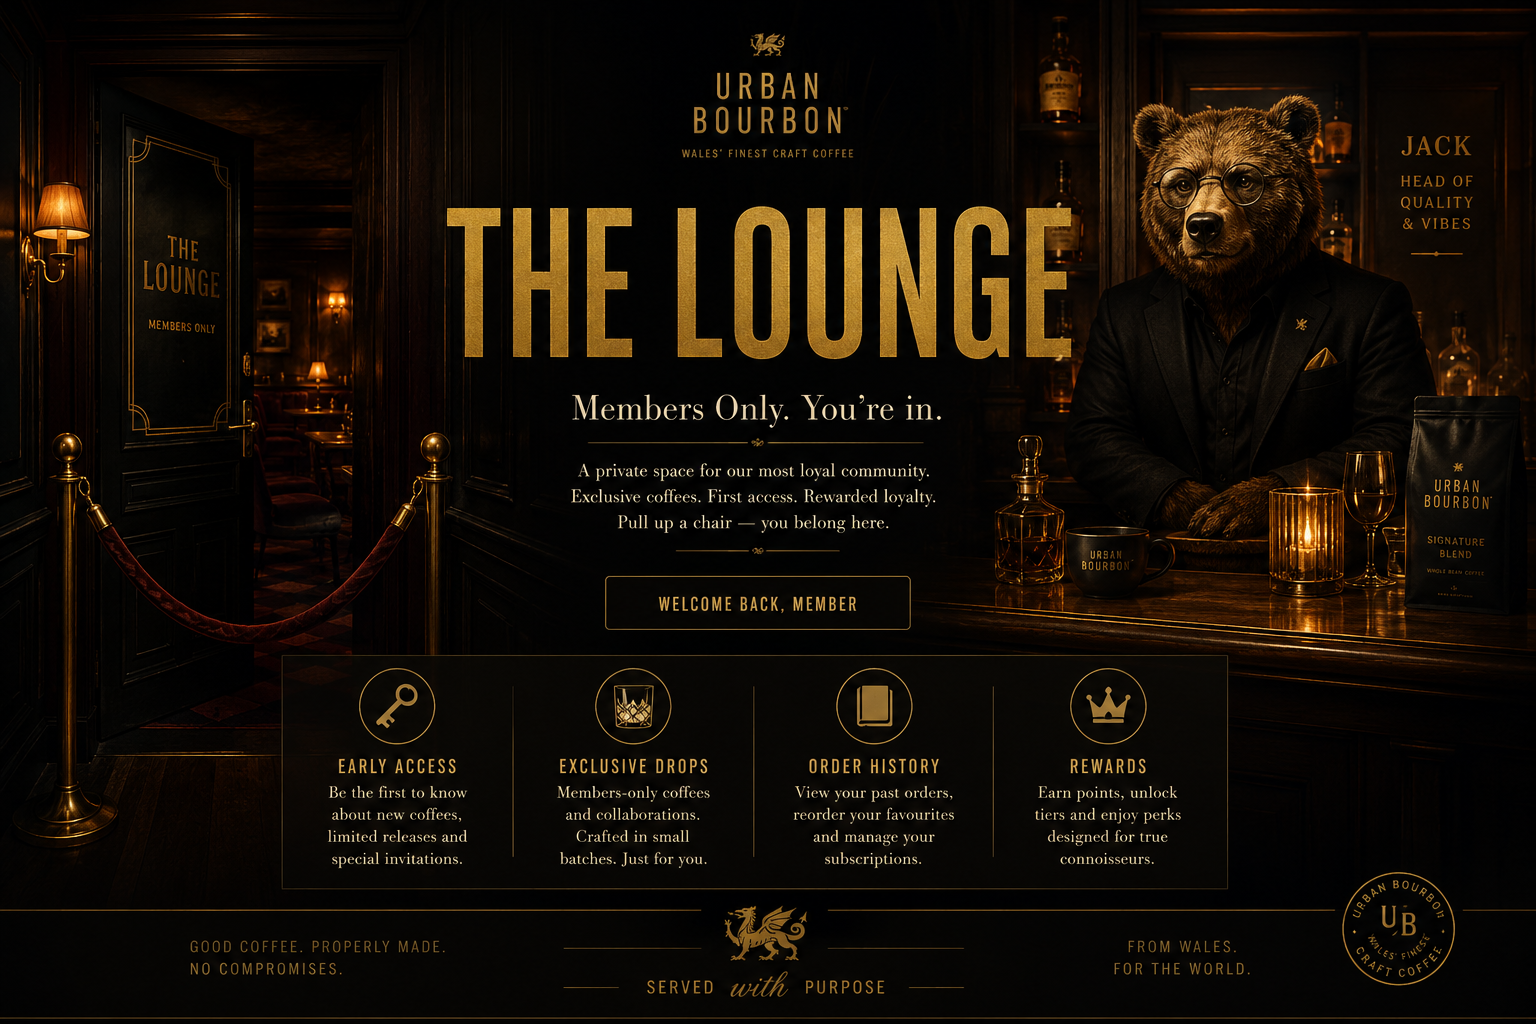
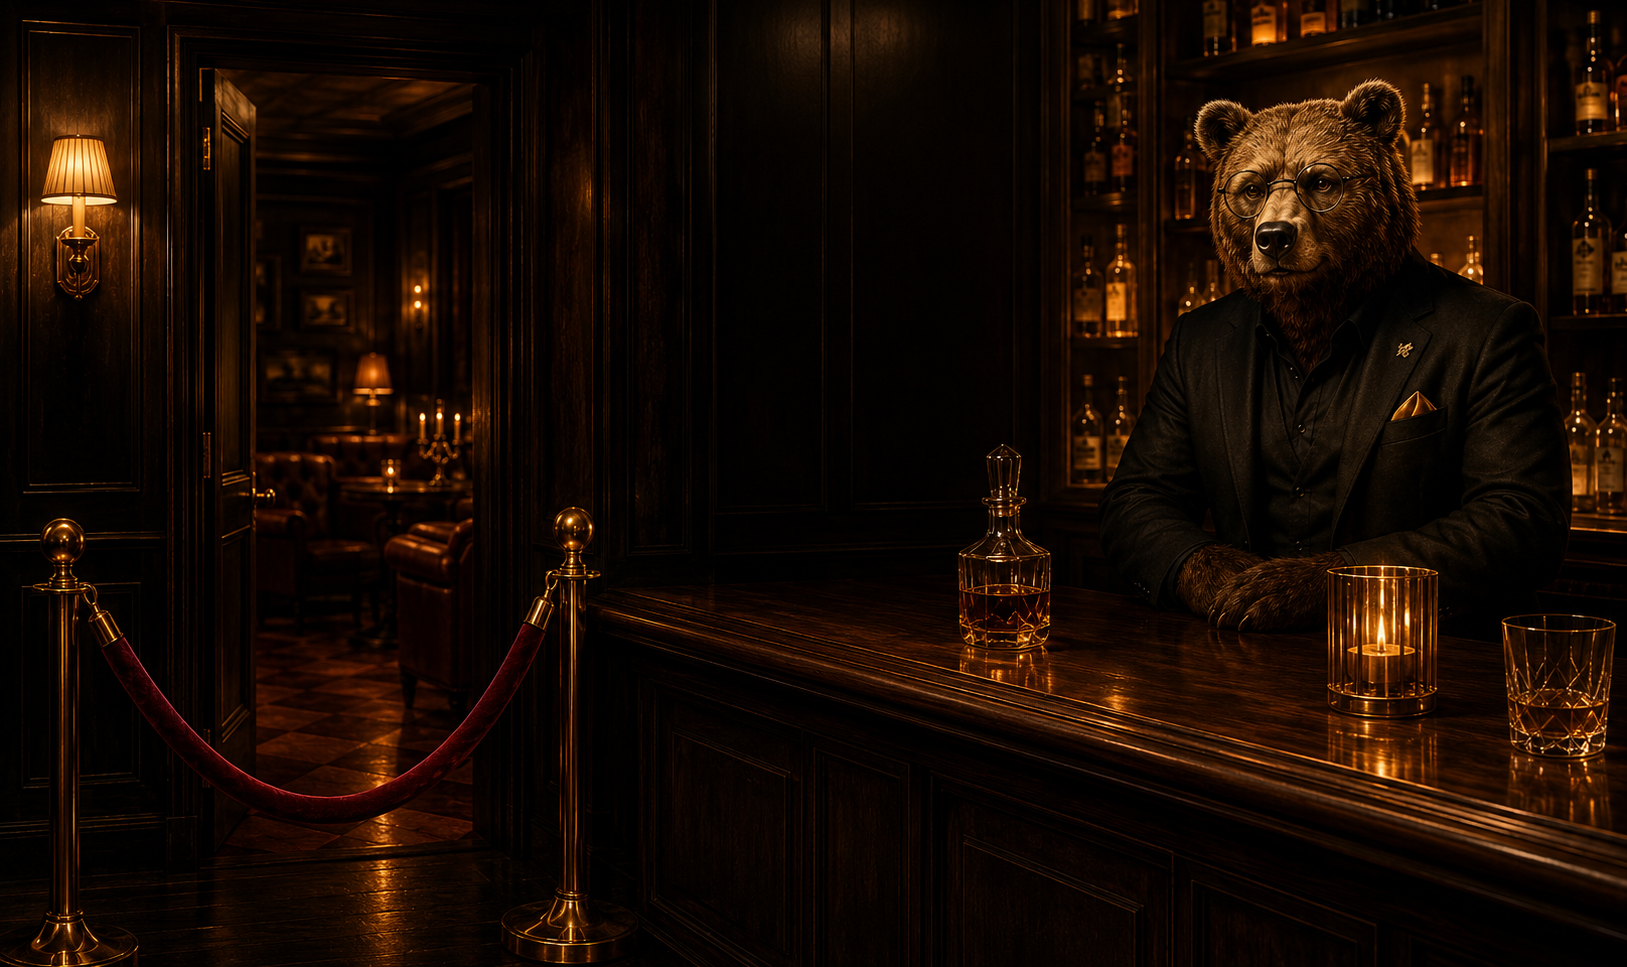
Update Lounge background image, bust cache with ?v=2

diff --git a/src/pages/Lounge.jsx b/src/pages/Lounge.jsx
@@ -55,7 +55,7 @@ export default function Lounge() {
 
         {/* Background image */}
         <img
-          src="/images/Welcome to the Lounge.png"
+          src="/images/Welcome to the Lounge.png?v=2"
           alt=""
           aria-hidden="true"
           className="absolute inset-0 w-full h-full object-cover object-center"